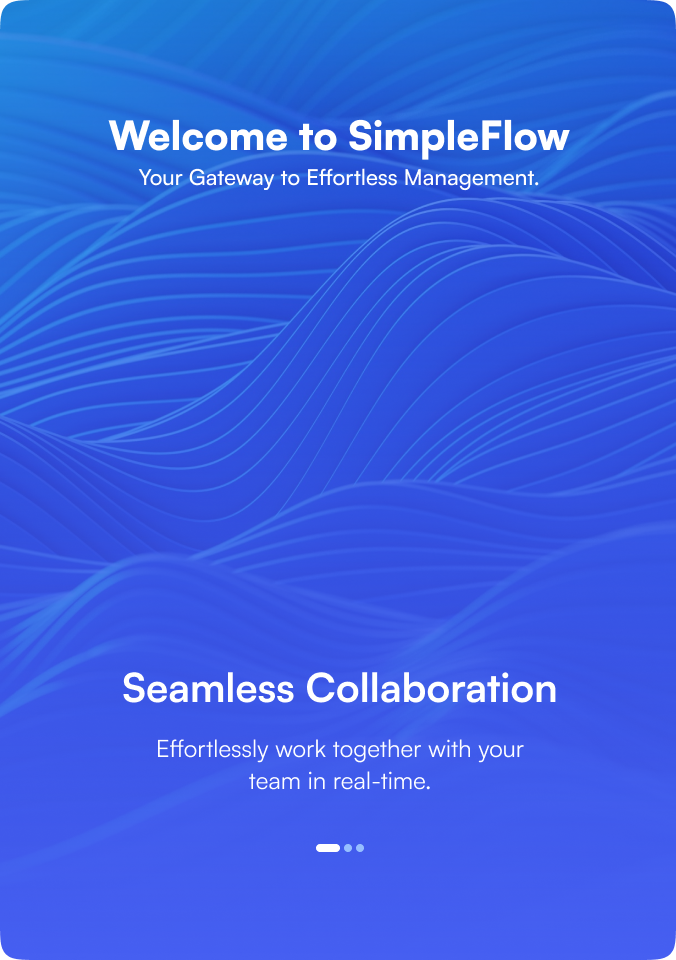
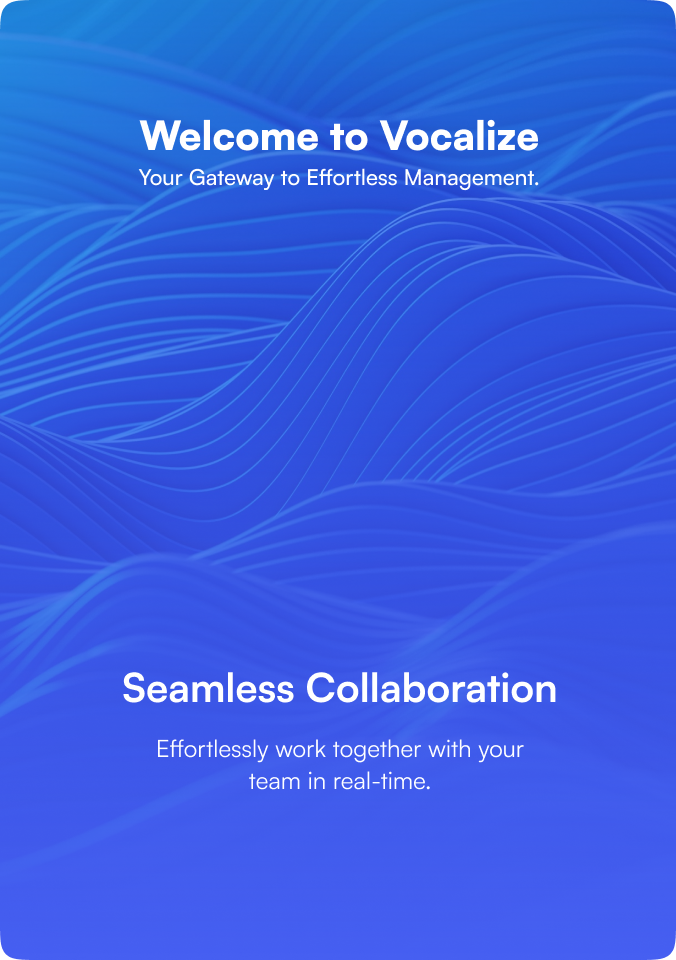
fixed minor bugs

Changed region(s): [[0.1553, 0.125, 0.8388, 0.1875], [0.466, 0.875, 0.5281, 0.9062]]

diff --git a/resetPassword.html b/resetPassword.html
@@ -24,7 +24,6 @@
       }
       .left {
         flex: 1;
-        background-color: #f8f9fa;
       }
       .right {
         flex: 1;
@@ -57,41 +56,21 @@
               <img src="logo.png" style="width: 180px" />
             </div>
 
-            <h5 class="mb-4 text-center fw-bold ">Reset Password</h5>
+            <h5 class="mb-4 text-center fw-bold">Reset Password</h5>
 
             <form id="resetPasswordForm">
               <div class="mb-3">
-                <label for="oldPassword" class="form-label">Old Password</label>
+                <label for="email" class="form-label">Email Address</label>
                 <input
-                  type="password"
+                  type="email"
                   class="form-control"
-                  id="oldPassword"
-                  placeholder="Enter Old Password"
-                  required
-                />
-              </div>
-              <div class="mb-3">
-                <label for="newPassword" class="form-label">New Password</label>
-                <input
-                  type="password"
-                  class="form-control"
-                  id="newPassword"
-                  placeholder="Enter New Password"
-                  required
-                />
-              </div>
-              <div class="mb-3">
-                <label for="confirmNewPassword" class="form-label">Confirm New Password</label>
-                <input
-                  type="password"
-                  class="form-control"
-                  id="confirmNewPassword"
-                  placeholder="Confirm New Password"
+                  id="email"
+                  placeholder="Enter your email address"
                   required
                 />
               </div>
               <button type="submit" class="btn btn-primary w-100">
-                Reset Password
+                Send Verification Code
               </button>
             </form>
 
@@ -111,17 +90,12 @@
     <script>
       document.getElementById("resetPasswordForm").addEventListener("submit", function (e) {
         e.preventDefault();
-        const oldPassword = document.getElementById("oldPassword").value;
-        const newPassword = document.getElementById("newPassword").value;
-        const confirmNewPassword = document.getElementById("confirmNewPassword").value;
+        const email = document.getElementById("email").value;
 
-        if (newPassword !== confirmNewPassword) {
-          alert("New passwords do not match!");
-        } else {
-          // Here you would typically send a request to your server to update the password
-          alert("Password reset successful!");
-          window.location.href = "index.html"; // Redirect to login page
-        }
+        // Here you would typically send a request to your server to send a verification code
+        alert("A verification code has been sent to " + email);
+        // You might want to redirect to a page where the user can enter the verification code
+        // window.location.href = "enter-verification-code.html";
       });
     </script>
   </body>

diff --git a/login.js b/login.js
@@ -1,0 +1,36 @@
+document.addEventListener('DOMContentLoaded', function() {
+    const signInBtn = document.getElementById('signInBtn');
+    const signUpBtn = document.getElementById('signUpBtn');
+    const signInForm = document.getElementById('signInForm');
+    const signUpForm = document.getElementById('signUpForm');
+  
+    function switchForms(showForm, hideForm, activeBtn, inactiveBtn) {
+      showForm.style.display = 'block';
+      hideForm.style.display = 'none';
+      activeBtn.classList.add('active');
+      inactiveBtn.classList.remove('active');
+    }
+  
+    signInBtn.addEventListener('click', () => switchForms(signInForm, signUpForm, signInBtn, signUpBtn));
+    signUpBtn.addEventListener('click', () => switchForms(signUpForm, signInForm, signUpBtn, signInBtn));
+  
+    signInForm.addEventListener('submit', function(e) {
+      e.preventDefault();
+      // Add your sign-in logic here
+      console.log('Sign In submitted');
+      window.location.href = 'mainscreen.html';
+    });
+  
+    signUpForm.addEventListener('submit', function(e) {
+      e.preventDefault();
+      const password1 = document.getElementById('password1').value;
+      const password2 = document.getElementById('password2').value;
+      if (password1 !== password2) {
+        alert('Passwords do not match!');
+      } else {
+        // Add your sign-up logic here
+        console.log('Sign Up submitted');
+        window.location.href = 'otp.html';
+      }
+    });
+  });

diff --git a/index.html b/index.html
@@ -101,10 +101,7 @@ overflow: hidden;
               </button>
             
             </form>
-            <p class="text-center p-bottom">
-              By signing up to create an account, I accept Company’s <br />
-              <strong>Terms of use & privacy policy</strong>
-            </p>
+         
 
             <!-- Sign Up Form -->
             <form id="signUpForm">
@@ -155,12 +152,14 @@ overflow: hidden;
             </form>
           </div>
         </div>
-        <p class="text-center p-bottom">
-          By signing up to create an account, I accept Company’s <br />
-          <strong>Terms of use & privacy policy</strong>
-        </p>
+   
       </section>
     </section>
+    
+    <p class="text-center p-bottom">
+      By signing up to create an account, I accept Company’s <br />
+      <strong>Terms of use & privacy policy</strong>
+    </p>
 
     <script src="https://cdn.jsdelivr.net/npm/bootstrap@5.3.0-alpha1/dist/js/bootstrap.bundle.min.js"></script>
     <script>

diff --git a/style.css b/style.css
@@ -111,13 +111,14 @@ img {
   width: 100%;
   min-height: 100vh;
   padding: 2rem;
-  .p-bottom {
-    position: absolute;
-    bottom: -64px;
-    left: 0;
-    font-size: 10px;
-  }
+  
 }
+.p-bottom {
+  position: absolute;
+  bottom: 0;
+left: 205;
+  margin-top: 66px;
+ }
 .wrap {
   width: 100%;
   max-width: 331px;
@@ -191,8 +192,13 @@ img {
   display: ruby-text;
   position: absolute;
   bottom: 0;
-  left: 0;
+right: 332px;
   margin-top: 66px;
+  @media screen and (max-width: 1075px) {
+   right: 100px;
+    max-width: 100%;
+    padding: 19px;
+  }
 }
 .lower-section {
   display: grid;
@@ -677,3 +683,7 @@ form{
     gap: 10px;
   }
 }
+
+
+
+

diff --git a/successfull.html b/successfull.html
@@ -24,7 +24,7 @@
 
           <h4 class="fw-bold">Account Created successfully</h4>
           <p class="text-light-emphasis">
-            Welcome aboard! Start your success journey with SimpleFlow!
+            Welcome aboard! Start your success journey with Vocalize!
           </p>
         </div>
         <a href="mainscreen.html">
